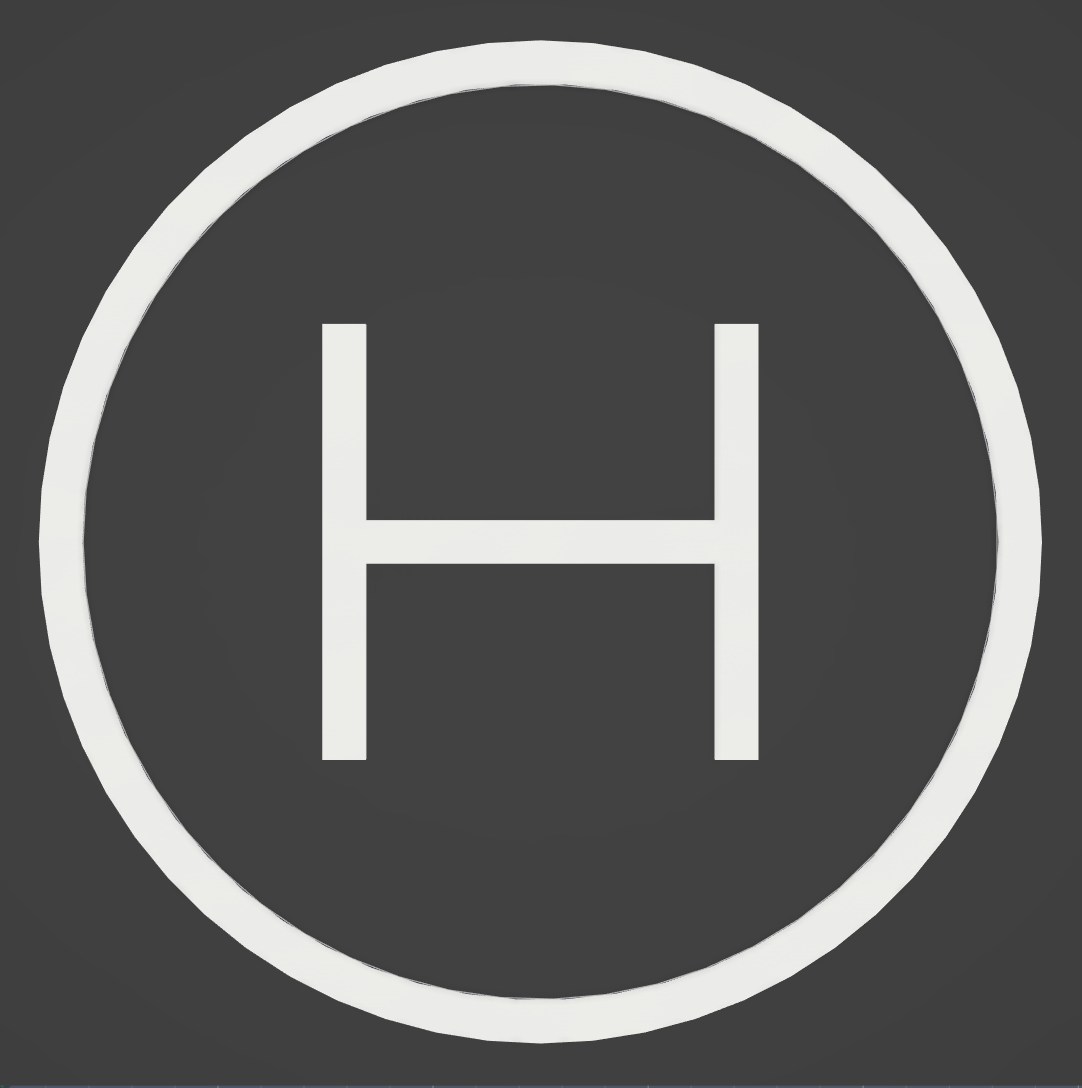
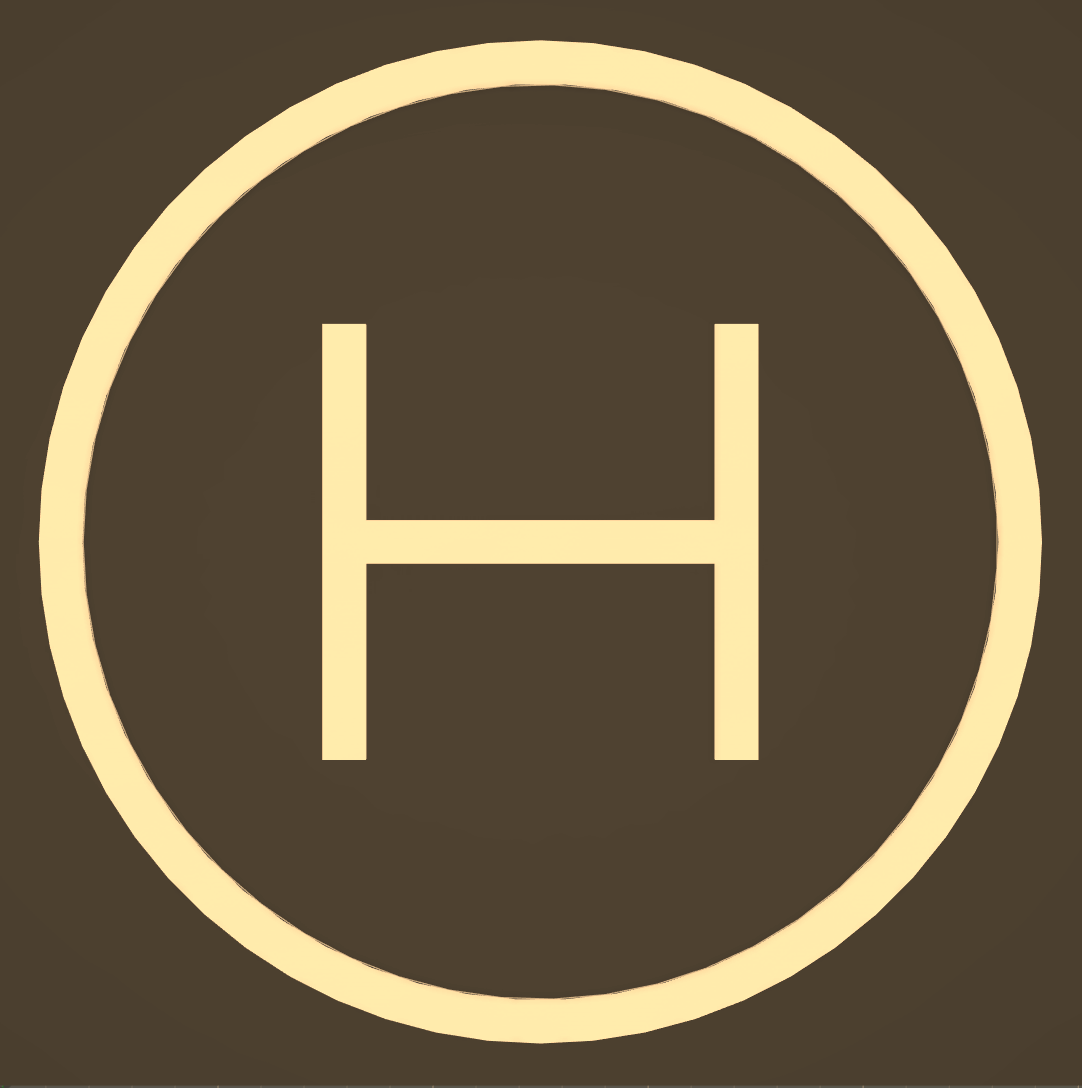
improve node and pad visuals & bug fix for edge thickness

Changed region(s): [[0.0305, 0.0312, 0.976, 0.9688], [0.2745, 0.2812, 0.7015, 0.7188]]

diff --git a/Assets/Scripts/skyway models/Node/NodeView.cs b/Assets/Scripts/skyway models/Node/NodeView.cs
@@ -11,6 +11,9 @@ public class NodeView : MonoBehaviour, IHighlightable
     [SerializeField]
     TextMeshPro nameTag;
 
+    [SerializeField]
+    GameObject transparentBroder;
+
     Camera mainCamera;
 
     void Awake()
@@ -51,27 +54,32 @@ public class NodeView : MonoBehaviour, IHighlightable
 
     public void ArrangePads(Node node)
     {
-        List<Pad> pads = node.Pads;
+        List<Pad> pads = new List<Pad>(node.RechargeablePads);
+        pads.AddRange(node.NonRechargeablePads);
         if (pads == null || pads.Count == 0)
             return;
         // 1. Determine the values for m and n
-        int n = Mathf.FloorToInt(Mathf.Sqrt(pads.Count));
+        int n = Mathf.CeilToInt(Mathf.Sqrt(pads.Count));
         int m = Mathf.CeilToInt((float)pads.Count / n);
-        float padWidth = 4f;
-        float padHeight = 4f;
+        float padGap = Globals.padGap;
         // 2. Calculate the position for each Pad using m and n
         for (int i = 0; i < pads.Count; i++)
         {
             int row = i / n; // Calculate the row
             int col = i % n; // Calculate the column
-            float xPos = col * padWidth;
-            float zPos = row * padHeight;
+            float xPos = row * padGap;
+            float zPos = col * padGap;
             // Set the Pad's position
             pads[i].transform.position =
                 new Vector3(xPos, 0, zPos)
                 + node.transform.position
-                + new Vector3(-padWidth * n / 2f, 0, -padHeight * n / 2f);
+                + new Vector3(-padGap * (m - 1) / 2f, 0, -padGap * (n - 1) / 2f);
         }
+        transparentBroder.transform.localScale = new Vector3(
+            m * n * 2 + 4,
+            m * n + 2,
+            m * n * 2 + 4
+        );
     }
 
     public void Highlight()

diff --git a/Assets/Scripts/skyway models/Edge/EdgeView.cs b/Assets/Scripts/skyway models/Edge/EdgeView.cs
@@ -21,7 +21,6 @@ public class EdgeView : MonoBehaviour
 
     void Awake()
     {
-        Debug.Log("Awake called");
         mainCamera = Camera.main;
         if (lineRenderer == null)
         {
@@ -49,7 +48,7 @@ public class EdgeView : MonoBehaviour
         string gameObjectName
     )
     {
-        Vector3 heightOffset = new Vector3(0, 1, 0);
+        Vector3 heightOffset = new Vector3(0, Globals.edgeHeightOffset, 0);
 
         // set waypoints as lineRenderer positions
         lineRenderer.positionCount = wayPoints.Count + 2;
@@ -86,7 +85,7 @@ public class EdgeView : MonoBehaviour
         lengthText.transform.localScale = new Vector3(scaleValue, scaleValue, scaleValue);
     }
 
-    public void UpdateEdgeThickness(float value)
+    public void UpdateEdgeThickness()
     {
         if (lineRenderer == null)
         {

diff --git a/Assets/Scripts/Globals.cs b/Assets/Scripts/Globals.cs
@@ -30,6 +30,9 @@ public class Globals : MonoBehaviour
     public const float objectCreationDistance = 15f;
     public const float editModeDragMultiplier = 0.2f;
     public const int playSpeedLimit = 32;
+    public const float padGap = 4f;
+    public const float edgeHeightOffset = 2f;
+    public const float edgeNodeGap = 5f;
 
     //public static Vector3 windDirection = Vector3.left;
 

diff --git a/Assets/Scripts/UI/SettingsController.cs b/Assets/Scripts/UI/SettingsController.cs
@@ -56,7 +56,7 @@ public class SettingsController : MonoBehaviour
         // update thickness for all edges
         foreach (Edge edge in Simulator.instance.Skyway.Edges)
         {
-            edge.EdgeView.UpdateEdgeThickness(value);
+            edge.EdgeView.UpdateEdgeThickness();
         }
     }
 }

diff --git a/Assets/Scripts/skyway models/Edge/Edge.cs b/Assets/Scripts/skyway models/Edge/Edge.cs
@@ -78,6 +78,7 @@ public class Edge : MonoBehaviour
         CalLengths();
         CalPath();
         UpdateEdgeVisual();
+        edgeView.UpdateEdgeThickness();
     }
 
     void Update()
